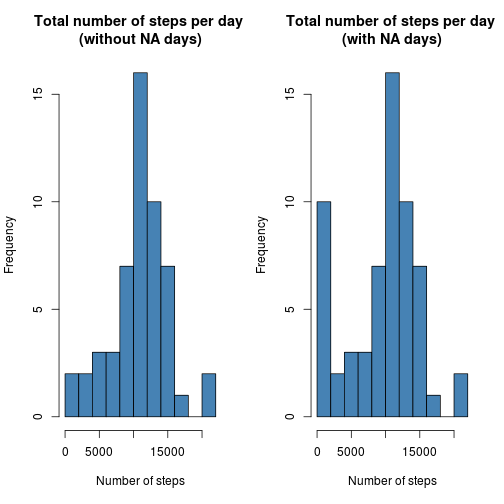
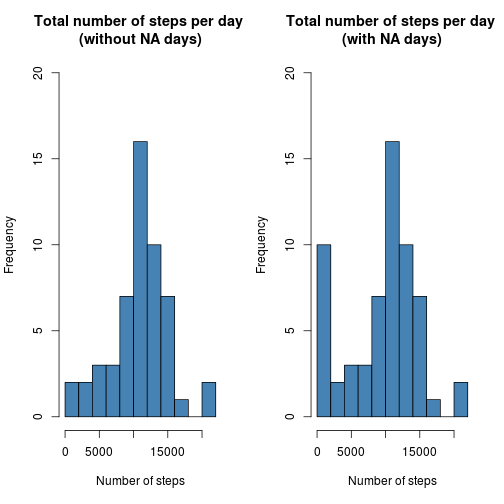
updated markdown file and generated html/pdf, add figures

diff --git a/PA1_template.html b/PA1_template.html
@@ -201,7 +201,7 @@ hr {
 </head>
 
 <body>
-<p><em>Created</em> Sun Oct 19 18:46:08 2014</p>
+<p><em>Created</em> Sun Oct 19 18:52:27 2014</p>
 
 <h2>Loading and preprocessing the data</h2>
 
@@ -291,10 +291,10 @@ summary(total)
 <p>Make a histogram of the total number of steps taken each day</p>
 
 <pre><code class="r">hist(total$totalSteps, col = &quot;steelblue&quot;, main = &quot;Total number of steps per day&quot;, 
-     xlab = &quot;Number of steps&quot;, breaks = 12)
+     xlab = &quot;Number of steps&quot;, ylim = c(0,20), breaks = 12)
 </code></pre>
 
[2 lines of base64/hex data omitted]
 
 <p>For comparison, let&#39;s remove missing values while computing</p>
 
@@ -320,13 +320,13 @@ summary(total)
 <pre><code class="r">par(mfrow = c(1, 2))
 hist(total$totalSteps, col = &quot;steelblue&quot;, 
      main = &quot;Total number of steps per day \n(without NA days)&quot;, 
-     xlab = &quot;Number of steps&quot;, breaks = 12)
+     xlab = &quot;Number of steps&quot;, ylim = c(0,20), breaks = 12)
 hist(total0$totalSteps, col = &quot;steelblue&quot;, 
      main = &quot;Total number of steps per day \n(with NA days)&quot;, 
-     xlab = &quot;Number of steps&quot;, breaks = 12)
+     xlab = &quot;Number of steps&quot;, ylim = c(0,20), breaks = 12)
 </code></pre>
 
[2 lines of base64/hex data omitted]
 
 <pre><code class="r">par(mfrow = c(1, 1))
 </code></pre>
@@ -476,7 +476,7 @@ hist(total1$totalSteps, col = &quot;steelblue&quot;,
 <pre><code class="r">par(mfrow = c(1, 1))
 </code></pre>
 
-<p>From the graph one can see that after we imputed missing values with estimates, 8 artificial 0-steps days have transformed into &ldquo;post popular&rdquo; days with approximately 11k steps.</p>
+<p>From the graph one can see that after we imputed missing values with estimates, 8 artificial 0-steps days have transformed into &ldquo;most popular&rdquo; days with approximately 11k steps.</p>
 
 <p>Find again the mean and median total number of steps taken per day</p>
 

diff --git a/PA1_template.md b/PA1_template.md
@@ -1,12 +1,12 @@
 ---
 title: 'Reproducible Research: Peer Assessment 1'
 output:
-  pdf_document: default
   html_document:
     keep_md: yes
+  pdf_document: default
 ---
 
-*Created* Sun Oct 19 18:46:08 2014
+*Created* Sun Oct 19 18:52:27 2014
 
 ## Loading and preprocessing the data
 Load all required libraries
@@ -104,7 +104,7 @@ Make a histogram of the total number of steps taken each day
 
 ```r
 hist(total$totalSteps, col = "steelblue", main = "Total number of steps per day", 
-     xlab = "Number of steps", breaks = 12)
+     xlab = "Number of steps", ylim = c(0,20), breaks = 12)
 ```
 
 ![plot of chunk unnamed-chunk-7](figure/unnamed-chunk-7-1.png) 
@@ -137,10 +137,10 @@ Now compare the plots: the right one has eight more 0-days
 par(mfrow = c(1, 2))
 hist(total$totalSteps, col = "steelblue", 
      main = "Total number of steps per day \n(without NA days)", 
-     xlab = "Number of steps", breaks = 12)
+     xlab = "Number of steps", ylim = c(0,20), breaks = 12)
 hist(total0$totalSteps, col = "steelblue", 
      main = "Total number of steps per day \n(with NA days)", 
-     xlab = "Number of steps", breaks = 12)
+     xlab = "Number of steps", ylim = c(0,20), breaks = 12)
 ```
 
 ![plot of chunk unnamed-chunk-10](figure/unnamed-chunk-10-1.png) 
@@ -318,7 +318,7 @@ hist(total1$totalSteps, col = "steelblue",
 par(mfrow = c(1, 1))
 ```
 
-From the graph one can see that after we imputed missing values with estimates, 8 artificial 0-steps days have transformed into "post popular" days with approximately 11k steps.
+From the graph one can see that after we imputed missing values with estimates, 8 artificial 0-steps days have transformed into "most popular" days with approximately 11k steps.
 
 Find again the mean and median total number of steps taken per day
 
